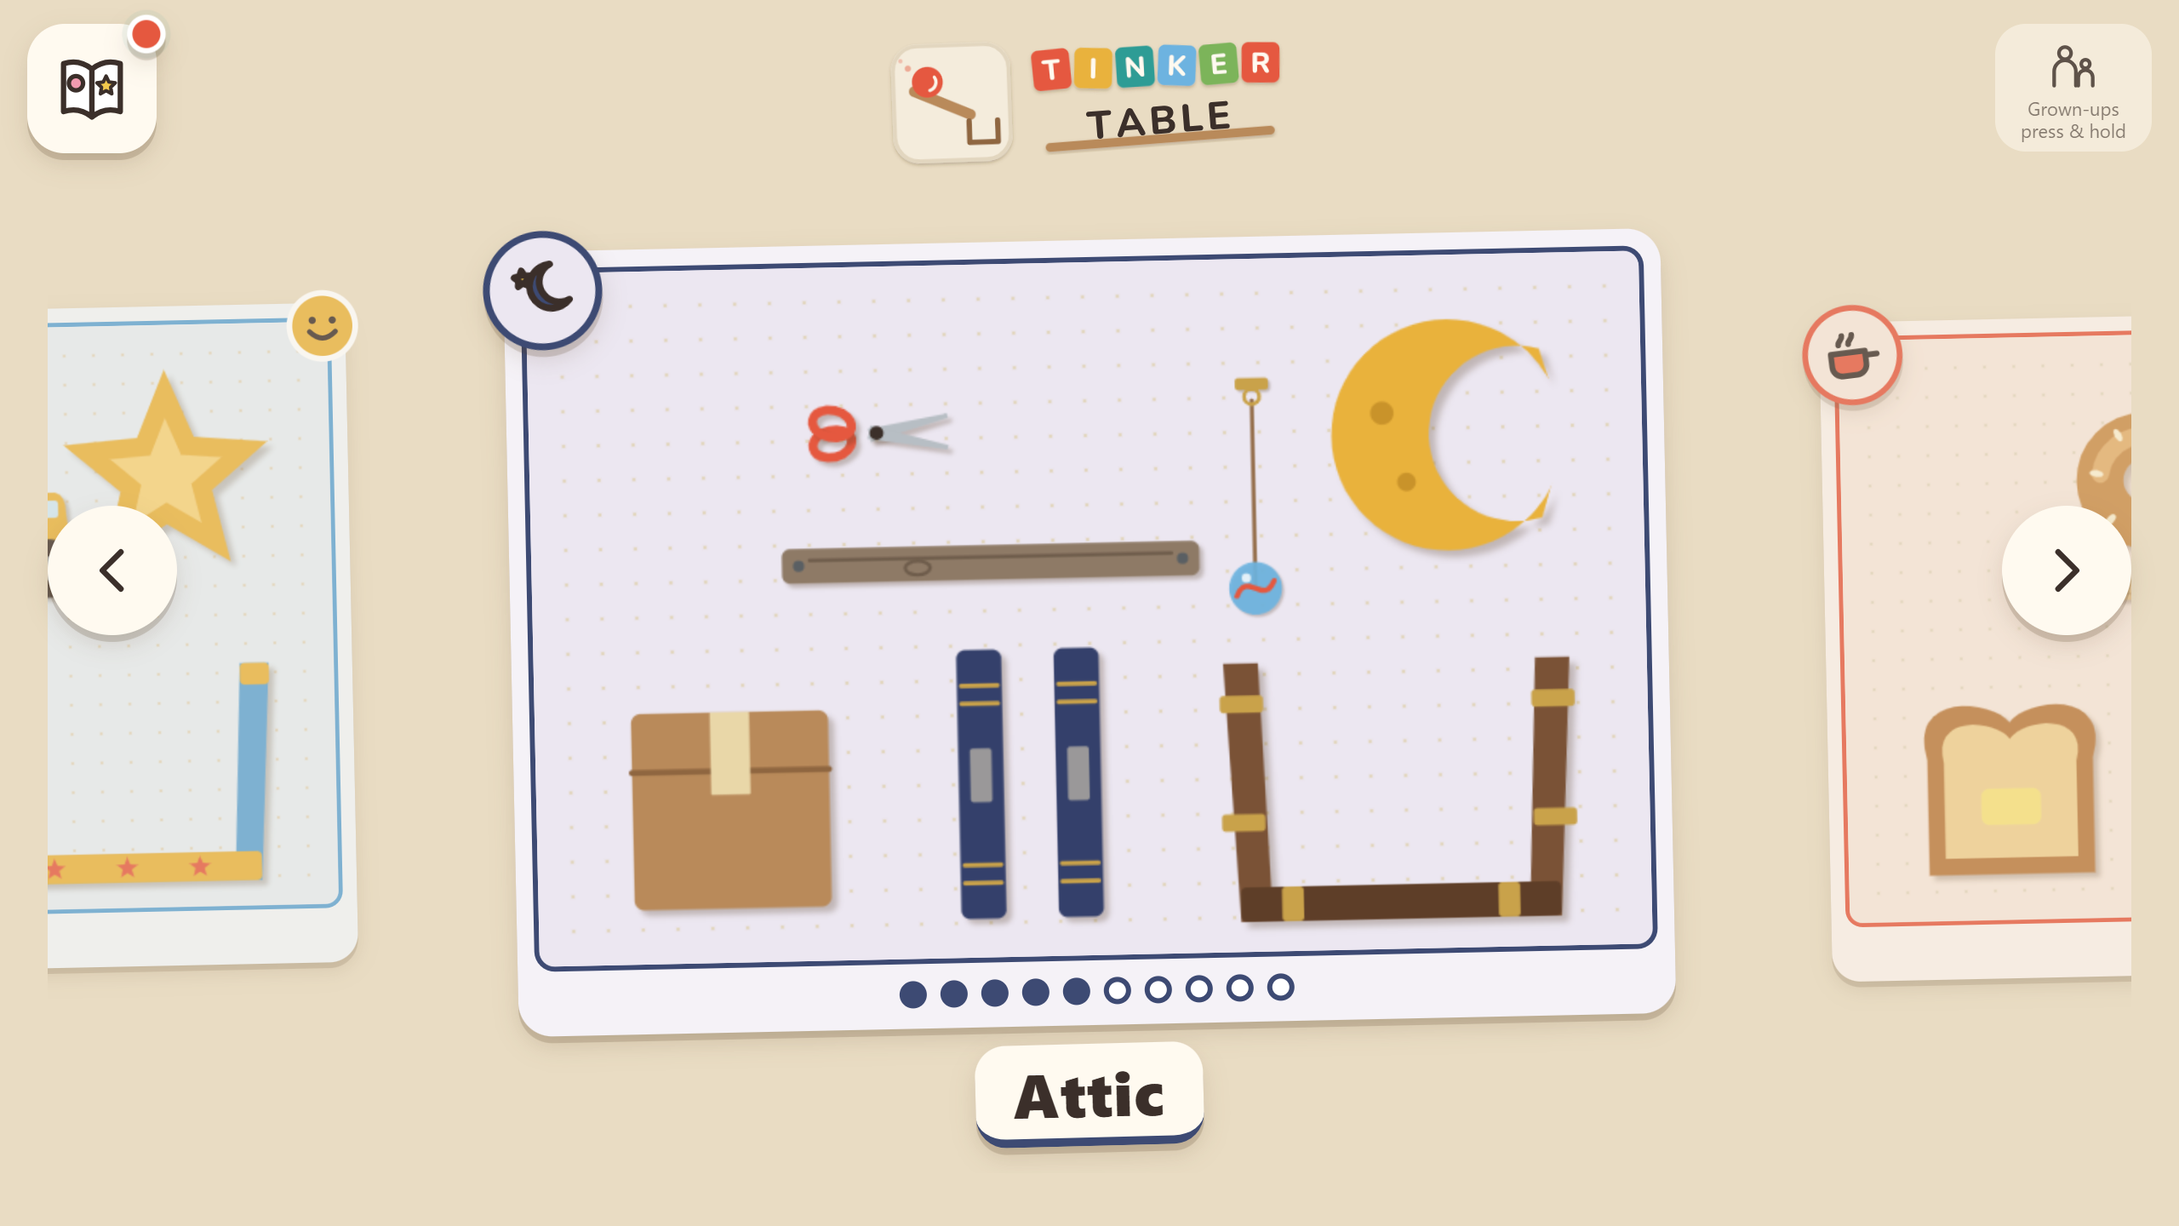
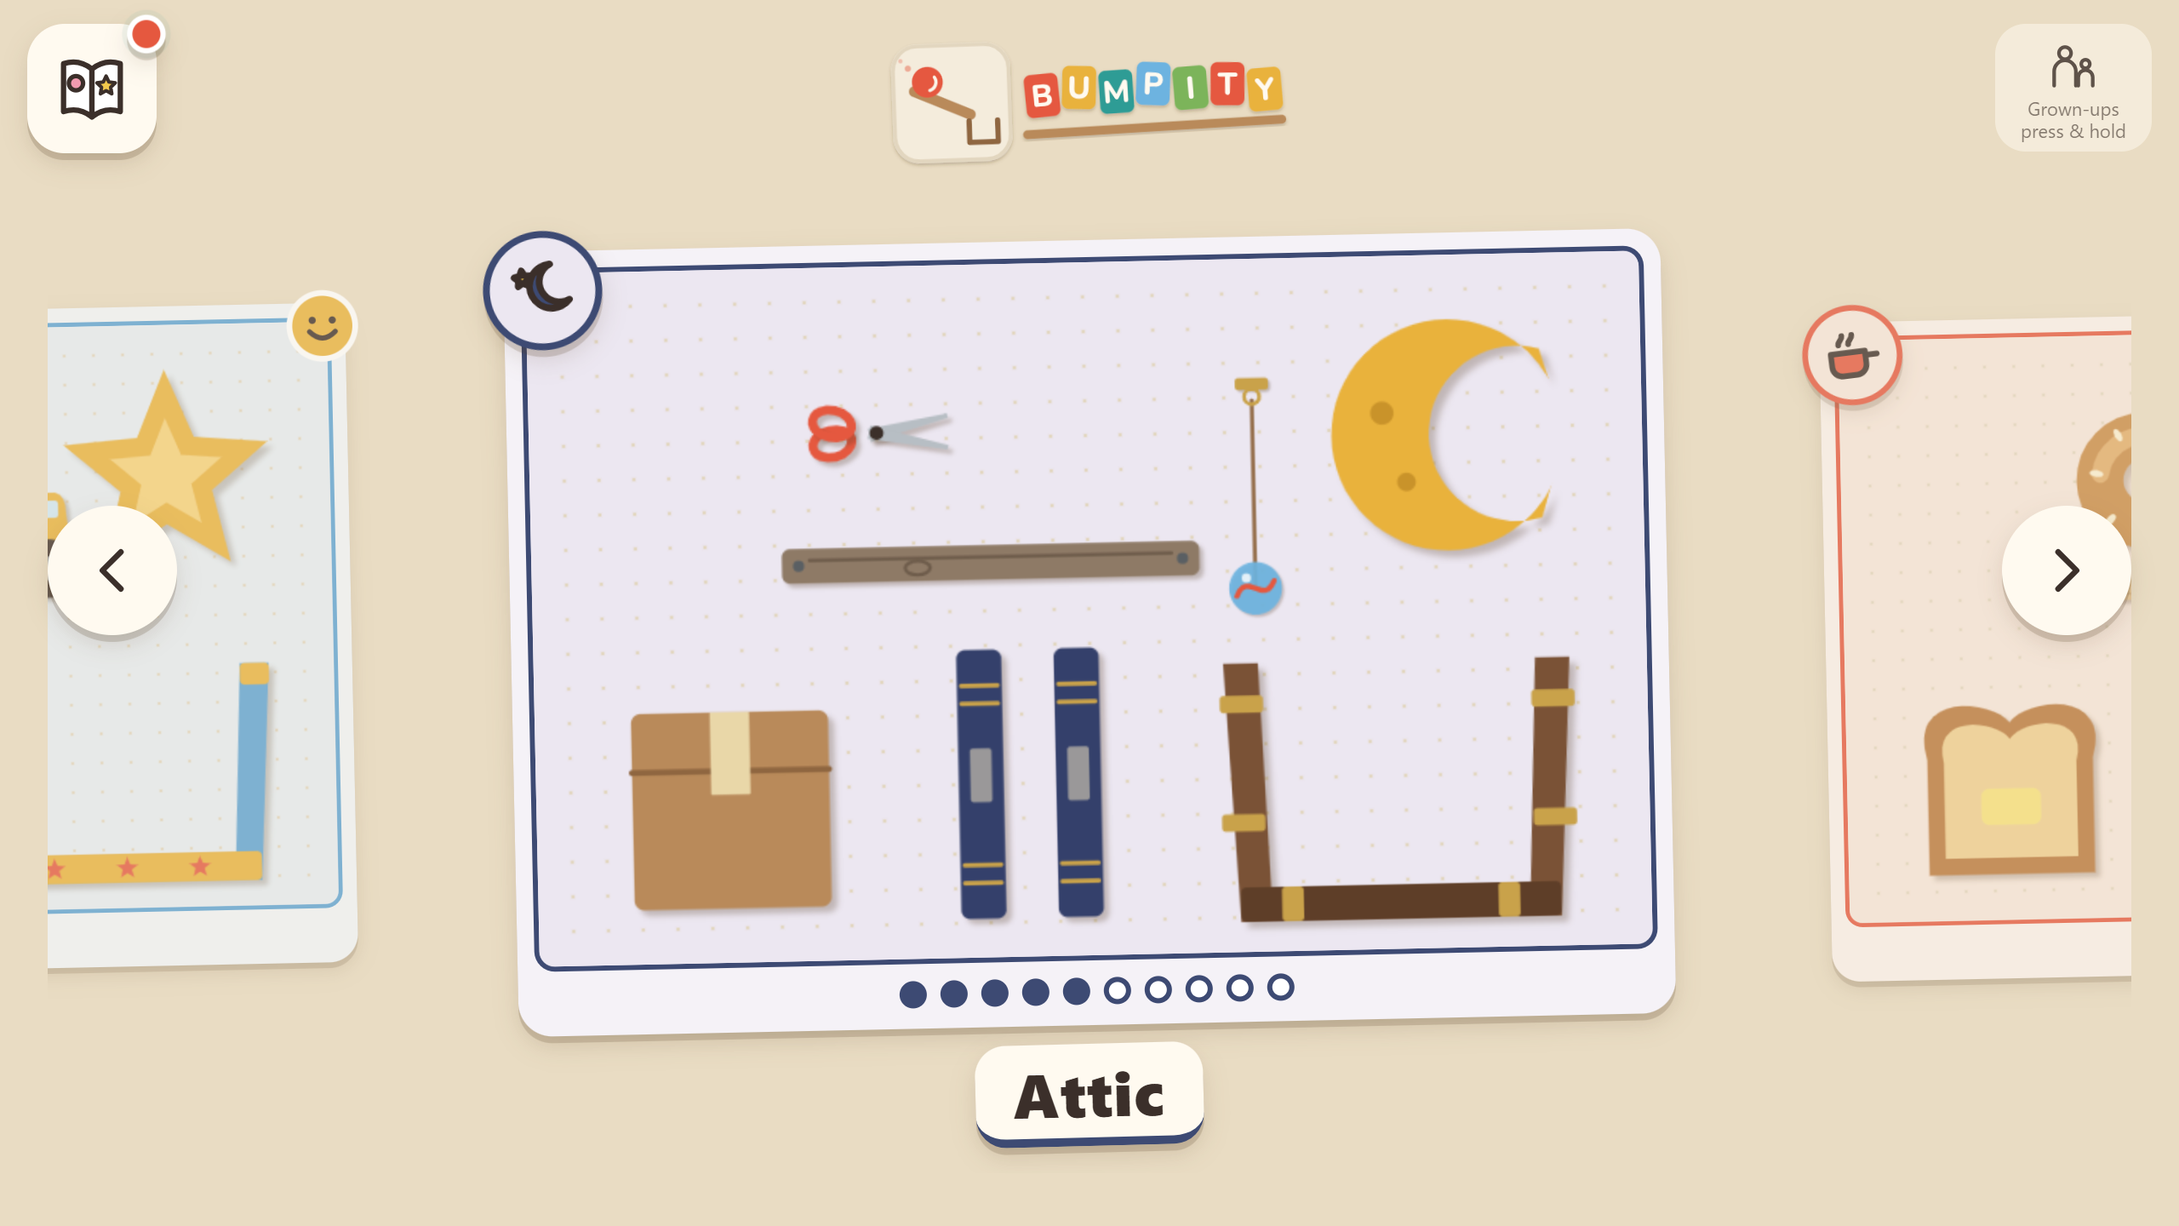
Rename the game to Bumpity
"Tinker" is crowded in our field (the Boston Children's Museum's TINKER
mark for children's kits, KiwiCo's TINKER CRATE), and Fiddlebox turned
out to be a Google Play puzzle game from October 2026. Bumpity had no app
and no exact trademark in the US, EU or UK registers.

- New logo: seven bouncing BUMPITY tiles on a shelf, same emblem and colours.
- The name changes in the page title, manifest, privacy page, grown-ups'
  corner, welcome card, lock guide and share title. Saved-progress keys
  keep their tinker. prefix so nobody loses their progress.
- Service worker cache renamed so the new logo is fetched.
- Store screenshots retaken; the script now skips the welcome card and
  opens the grown-ups' corner on the talk cards.
- release-prep.md records the name checks and what is left (a lawyer's
  clearance, a class 9 filing, the domain).

Changed region(s): [[0.4688, 0.0312, 0.5938, 0.125]]

diff --git a/src/parents/lock.ts b/src/parents/lock.ts
@@ -1,4 +1,4 @@
-// "Keep your child inside the game": how to lock the tablet to Tinker Table with the
+// "Keep your child inside the game": how to lock the tablet to Bumpity with the
 // device's own tools. An app can't stop the home swipe; Guided Access (iPad) and app
 // pinning (Android) can, and leaving them needs the grown-up's passcode.
 
@@ -27,14 +27,14 @@ const tripleTop = (end = false) => `<svg ${S}>
   <text x="44" y="11" class="big">3×</text>
   ${end
     ? '<g transform="translate(52 40)"><circle cx="0" cy="8" r="4" class="dot" /><circle cx="14" cy="8" r="4" class="dot" /><circle cx="28" cy="8" r="4" class="dot" /><circle cx="42" cy="8" r="4" class="dot" /><text x="4" y="32">passcode</text></g>'
-    : '<text x="46" y="58">Tinker Table</text>'}
+    : '<text x="46" y="58">Bumpity</text>'}
 </svg>`;
 /** Guided Access's Start button, top right. */
 const startBtn = `<svg ${S}>
   ${TAB}
   <rect x="30" y="26" width="30" height="10" rx="2" class="row" /><text x="33" y="34">Options</text>
   <rect x="100" y="26" width="30" height="10" rx="2" class="row hl" /><text x="106" y="34">Start</text>
-  <rect x="38" y="44" width="84" height="34" rx="4" class="row" /><text x="56" y="64">Tinker Table</text>
+  <rect x="38" y="44" width="84" height="34" rx="4" class="row" /><text x="56" y="64">Bumpity</text>
 </svg>`;
 /** Android's recent apps, with the pin item in an app's menu. */
 const recents = `<svg ${S}>
@@ -56,14 +56,14 @@ interface LockStep { pic: string; text: string }
 
 const IPAD: LockStep[] = [
   { pic: settingsRow('Guided Access'), text: 'Open <b>Settings › Accessibility › Guided Access</b> and turn it on. Under <b>Passcode Settings</b>, set a Guided Access passcode your child doesn\'t know. You only do this once.' },
-  { pic: tripleTop(), text: 'Open Tinker Table, then press the <b>top button</b> three times quickly (on iPads with a Home button, press that three times).' },
+  { pic: tripleTop(), text: 'Open Bumpity, then press the <b>top button</b> three times quickly (on iPads with a Home button, press that three times).' },
   { pic: startBtn, text: 'Tap <b>Start</b> at the top right. The iPad now stays in the game: swiping home does nothing. <b>Options</b> has a time limit too, if you want one.' },
   { pic: tripleTop(true), text: 'To leave, press the top button three times again, type the passcode and tap <b>End</b>.' },
 ];
 
 const ANDROID: LockStep[] = [
   { pic: settingsRow('App pinning'), text: 'Open <b>Settings › Security</b> (on some phones <b>Security › More security settings</b>) and turn on <b>App pinning</b> (also called screen pinning). Turn on <b>Ask for PIN before unpinning</b> too.' },
-  { pic: recents, text: 'Open Tinker Table, then open your recent apps. Tap the Tinker Table icon at the top of its card and choose <b>Pin</b>.' },
+  { pic: recents, text: 'Open Bumpity, then open your recent apps. Tap the Bumpity icon at the top of its card and choose <b>Pin</b>.' },
   { pic: unpin, text: 'To leave, swipe up and hold (or, with buttons, touch and hold Back and Overview together), then type the tablet\'s own PIN.' },
 ];
 

diff --git a/src/main.ts b/src/main.ts
@@ -544,12 +544,12 @@ function buildGrownups() {
       <div id="gu-pin" class="gu-card"></div>
       <div class="gu-card" id="gu-lock">
         <h4>Keep your child inside the game</h4>
-        <p>No app can stop a child swiping out to the home screen. The tablet itself can: lock it to Tinker Table before you hand it over, and only your passcode unlocks it.</p>
+        <p>No app can stop a child swiping out to the home screen. The tablet itself can: lock it to Bumpity before you hand it over, and only your passcode unlocks it.</p>
         ${lockGuideHtml(guessPlatform())}
       </div>
     </section>
     <section class="gu-sec" data-sec="play">
-      <img class="gu-logo" src="logo.svg" alt="Tinker Table" />
+      <img class="gu-logo" src="logo.svg" alt="Bumpity" />
       <p class="lead">${esc(INTRO)}</p>
       <h3>A simple routine for every level</h3>
       <ol class="routine">${ROUTINE.map((r) => `<li><b>${esc(r.step)}.</b> ${esc(r.say)}</li>`).join('')}</ol>
@@ -581,7 +581,7 @@ function buildGrownups() {
       </div>
       <h3>Privacy</h3>
       <div class="gu-card">
-        <p>Tinker Table collects no data: no accounts, ads, tracking or links out. Progress, the sticker book, the PIN and made puzzles are kept only on this device. A shared link contains only the puzzle itself.</p>
+        <p>Bumpity collects no data: no accounts, ads, tracking or links out. Progress, the sticker book, the PIN and made puzzles are kept only on this device. A shared link contains only the puzzle itself.</p>
         <p><a href="privacy.html">Read the privacy policy</a></p>
       </div>
     </section>`;
@@ -767,7 +767,7 @@ function showWelcome() {
   wrap.innerHTML = `
     <div class="welcome" role="dialog" aria-modal="true" aria-labelledby="welcome-title">
       <h3 id="welcome-title">Before you hand it over</h3>
-      <p>Tinker Table is made to play beside you. If your child will sometimes play on their own, two things help:</p>
+      <p>Bumpity is made to play beside you. If your child will sometimes play on their own, two things help:</p>
       <ol>
         <li><b>A grown-ups' PIN</b> keeps them out of the settings and the grown-ups' corner.
           <div class="acts"><button class="text-btn primary" data-w="pin">Set a PIN</button></div></li>
@@ -799,7 +799,7 @@ async function sharePuzzle(code: string, btn: HTMLButtonElement) {
   const label = btn.textContent;
   const flash = (t: string) => { btn.textContent = t; setTimeout(() => { btn.textContent = label; }, 2200); };
   try {
-    if (navigator.share) { await navigator.share({ title: 'A Tinker Table puzzle', url }); return; }
+    if (navigator.share) { await navigator.share({ title: 'A Bumpity puzzle', url }); return; }
     await navigator.clipboard.writeText(url);
     flash('Link copied!');
   } catch (e) {

diff --git a/public/privacy.html b/public/privacy.html
@@ -4,9 +4,9 @@
     <meta charset="UTF-8" />
     <meta name="viewport" content="width=device-width, initial-scale=1, viewport-fit=cover" />
     <meta name="theme-color" content="#e9dcc3" />
-    <title>Privacy policy · Tinker Table</title>
+    <title>Privacy policy · Bumpity</title>
     <link rel="icon" type="image/svg+xml" href="favicon.svg" />
-    <meta name="description" content="Tinker Table collects no data. Everything a child makes stays on the device." />
+    <meta name="description" content="Bumpity collects no data. Everything a child makes stays on the device." />
     <style>
       :root { --bg: #e9dcc3; --card: #fffaf0; --ink: #3b2f2a; --soft: #6b5a50; --teal: #2f9c95; --line: #e2d6bf; }
       * { box-sizing: border-box; }
@@ -44,16 +44,16 @@
   </head>
   <body>
     <main>
-      <img class="logo" src="logo.svg" alt="Tinker Table" />
+      <img class="logo" src="logo.svg" alt="Bumpity" />
       <h1>Privacy policy</h1>
       <p class="date">Last updated 20 November 2026</p>
 
       <div class="short">
-        <p><b>The short version:</b> Tinker Table collects nothing. There are no accounts, no ads, no analytics, no tracking and no in-app purchases. What your child makes stays on your device.</p>
+        <p><b>The short version:</b> Bumpity collects nothing. There are no accounts, no ads, no analytics, no tracking and no in-app purchases. What your child makes stays on your device.</p>
       </div>
 
       <h2>Who this covers</h2>
-      <p>This policy covers the Tinker Table game: the web version and the apps for iPad and Android. Tinker Table is made for children aged about 5 to 8, playing with a grown-up.</p>
+      <p>This policy covers the Bumpity game: the web version and the apps for iPad and Android. Bumpity is made for children aged about 5 to 8, playing with a grown-up.</p>
 
       <h2>What we collect</h2>
       <p>Nothing. The game does not ask for a name, an age, an email address, a photo, a location or any other personal information. It has no sign-in. It contains no advertising, analytics, crash-reporting or tracking tools, and no code from other companies that could collect data.</p>

diff --git a/index.html b/index.html
@@ -6,9 +6,9 @@
     <meta name="apple-mobile-web-app-capable" content="yes" />
     <meta name="mobile-web-app-capable" content="yes" />
     <meta name="apple-mobile-web-app-status-bar-style" content="default" />
-    <meta name="apple-mobile-web-app-title" content="Tinker Table" />
+    <meta name="apple-mobile-web-app-title" content="Bumpity" />
     <meta name="theme-color" content="#e9dcc3" />
-    <title>Tinker Table</title>
+    <title>Bumpity</title>
     <link rel="manifest" href="manifest.webmanifest" />
     <link rel="apple-touch-icon" href="icons/icon-180.png" />
     <link rel="icon" type="image/svg+xml" href="favicon.svg" />
@@ -19,7 +19,7 @@
   <body>
     <!-- Level map -->
     <section id="map" class="screen">
-      <h1 class="logo"><img src="logo.svg" alt="Tinker Table" /></h1>
+      <h1 class="logo"><img src="logo.svg" alt="Bumpity" /></h1>
       <div id="levels"></div>
       <!-- The sticker book: one sticker for every finished level. -->
       <button id="btn-book" class="book-btn" aria-label="Sticker book">

diff --git a/src/parents/content.ts b/src/parents/content.ts
@@ -16,7 +16,7 @@ export interface TalkCard {
 }
 
 export const INTRO =
-  'Tinker Table is a calm puzzle game for children aged about 5 to 8 (younger ones can play the first room with you). Each level is a small machine with one piece missing. ' +
+  'Bumpity is a calm puzzle game for children aged about 5 to 8 (younger ones can play the first room with you). Each level is a small machine with one piece missing. ' +
   'Your child adds parts, presses Go and watches what happens. Nothing ever "fails": if the machine misses, it simply resets, ' +
   'and they can change something and try again. The game works best with you sitting beside them, talking about what you both see.';
 

diff --git a/public/sw.js b/public/sw.js
@@ -1,6 +1,6 @@
 // Offline support: keep a copy of everything the game loads, so it still opens
 // with no internet once it has been played online at least once.
-const CACHE = 'tinker-table-v3'; // bump when files with fixed names (icons, logo) change
+const CACHE = 'bumpity-v4'; // bump when files with fixed names (icons, logo) change
 
 self.addEventListener('install', (e) => {
   e.waitUntil(caches.open(CACHE).then((c) => c.addAll(['./', './manifest.webmanifest', './icons/icon-192.png', './logo.svg', './favicon.svg'])));

diff --git a/docs/release-prep.md b/docs/release-prep.md
@@ -10,17 +10,26 @@ The four jobs the roadmap lists before release, and where each one stands.
 - **Store forms that follow from it:** Apple's privacy label is "Data Not Collected". Google's Data safety form is "No data collected, no data shared". For Google's Families policy, the target age group is 5–8.
 - If the Capacitor app ever adds anything (analytics, crash reports, purchases), the page and both forms have to change first.
 
-## 2. Trademark check on "Tinker Table": first look done, not cleared
-A web search on 20 November 2026 found:
-- **No live trademark for "Tinker Table"** turned up. The closest was TINKER TABLES (furniture, class 20), cancelled in 2018.
-- **Same name, other things:** a classroom table sold by Furnware, a crafting item in some games (Tinkers' Construct, Miner's Haven, Tinkerlands), and tinkertable.io, a card-game playtesting tool.
-- **"Tinker" marks near our field:** KiwiCo's TINKER CRATE (kids' science kits), THINKER-TINKER (plush toys and children's educational software), TINKER GAMES (card games), and a TINKER application covering online games and game apps (serial 98471370; its owner and status couldn't be read, so check this one first). Disney guards TINKER BELL hard, but "Tinker Table" isn't close to it.
+## 2. The name: renamed to Bumpity, first checks clean
+The game was called **Tinker Table** until 20 November 2026. It was dropped because "Tinker" is crowded in exactly our field: the Boston Children's Museum holds a live TINKER registration for children's educational kits (US serial 98471370, class 28), and KiwiCo holds TINKER CRATE (kids' craft and activity kits).
+
+Names that were looked at and dropped:
+- **Fiddlebox:** no trademark anywhere, but a puzzle game called "Fiddlebox: Block Games" came out on Google Play on 21 October 2026.
+- **Whatchamachine:** hard to say. **Clink & Clunk:** close to the kids' app Clink & Think. **Paper Rumpus:** Rumpus has toy trademarks. **Tip & Tumble:** an existing tilt-maze app. **Roll & Rattle:** close to Oball's Rattle and Roll baby toy.
+
+What the checks on **Bumpity** found (20 November 2026):
+- **App Store and Google Play:** no app called Bumpity. The nearest are "Bump" social apps and Bumpi, a baby heartbeat app.
+- **Registers** (USPTO directly, and TMview, which covers the EUIPO, the UK IPO and about 70 other offices): no mark that is just BUMPITY. Two nearby ones for a lawyer to weigh:
+  - JUMPITY BUMPITY: registered in the US in 2025 for entertainment services (class 41, serial 99386628). It seems to be a children's play place.
+  - BUMPIT: registered in the US in 2025 for toys (class 28, serial 98938571). It matters only if Bumpity toys are ever planned.
+  - Mattel's BUMPITY THUMPITY (toys) has ended.
+- **Web addresses:** bumpity.app, playbumpity.com and bumpitygame.com were free; bumpity.com is taken.
 
 This is a search, not legal clearance. Before paying for the store accounts:
-1. Search the [USPTO trademark search](https://tmsearch.uspto.gov/) for "tinker table" and "tinker" in classes 9 (apps) and 28 (games and toys), and open serial 98471370.
-2. Do the same in the [UK IPO](https://trademarks.ipo.gov.uk/ipo-tmtext) and [EUIPO](https://euipo.europa.eu/eSearch/) searches if the game will be sold there.
-3. Search both stores for "Tinker Table" and "Tinker" kids' games.
-4. If nothing close turns up, consider filing for the name in class 9 (and 28 if there might be toys later). A trademark lawyer's clearance search costs a few hundred dollars and is worth it before the name goes on a store page.
+1. Have a trademark lawyer run a clearance search for BUMPITY in class 9 (apps), and in 41 and 28 if those matter. It costs a few hundred dollars.
+2. File for the name in class 9 (the US, and the UK/EU if the game is sold there). Filing for class 9 only keeps clear of the BUMPIT toy mark.
+3. Register bumpity.app (or playbumpity.com) and the social handles before the name is announced.
+4. The game's web address is still `bahafin.github.io/tinker-table/`, and the saved-progress keys in the browser still start with `tinker.`. The keys stay as they are, so nobody loses their progress. Renaming the GitHub repo would change the address; GitHub redirects the old repo URL but not the Pages address, so it is best done before the address is shared widely.
 
 ## 3. Logo letters as outlines: done
 - [public/logo.svg](../public/logo.svg) now draws its letters as shapes, so it looks the same on every device and needs no font. Before, each device fell back to whatever rounded font it had.

diff --git a/docs/roadmap.md b/docs/roadmap.md
@@ -1,4 +1,4 @@
-# Tinker Table roadmap
+# Bumpity roadmap
 
 What we plan to build next, in order. Every feature has to keep three rules:
 - **No text the child needs to read.** Pictures, icons and the voice carry everything. Simple word labels (room names) may sit next to pictures, and they are read aloud when tapped.
@@ -142,7 +142,7 @@ With a real finger, before wrapping: the Music room, the toy box tabs and arrows
 
 ### Paperwork
 - Privacy page, logo letters as outlines, and store screenshots: done. See [release-prep.md](release-prep.md).
-- Trademark check: the name has had a first search but not a legal clearance; "Tinker" (US serial 98471370, online games) still needs a proper look.
+- Name: renamed from Tinker Table to Bumpity (20 November 2026). First searches are clean; a lawyer's clearance and a class 9 filing are still to do. See [release-prep.md](release-prep.md).
 - A support email for the privacy page and the store listings.
 - Apple's age questions and the Kids section rules (parental gate, no third-party analytics or ads).
 - Costs: $99 a year for Apple, $25 once for Google.

diff --git a/docs/design.md b/docs/design.md
@@ -1,6 +1,6 @@
-# Tinker Table — design doc
+# Bumpity — design doc
 
-*Working title. Check the name before any release.*
+*Called Tinker Table until November 2026; renamed after the name check (see [release-prep.md](release-prep.md)).*
 
 ## The game in one paragraph
 A calm chain-reaction puzzle game for ages 5–8 (younger children with a grown-up), played with a parent on a tablet. Each level shows a little scene on a paper craft table and a goal shown as a picture ("ball → basket"), which a voice reads out. The child drags a few big paper parts from the tray, presses the big green **Go** button and watches the machine run. If it misses, everything gently resets to where the parts were placed, with no fail screen. If it works, there is confetti, a happy sound and a slow-motion replay. A **toy box** with every part and no goal is open from day one.

diff --git a/README.md b/README.md
@@ -1,4 +1,4 @@
-# Tinker Table (working title)
+# Bumpity
 
 A calm chain-reaction puzzle game for kids aged 5–8 (younger ones with a grown-up), built as a web app for the iPad. The design is in [docs/design.md](docs/design.md).
 
